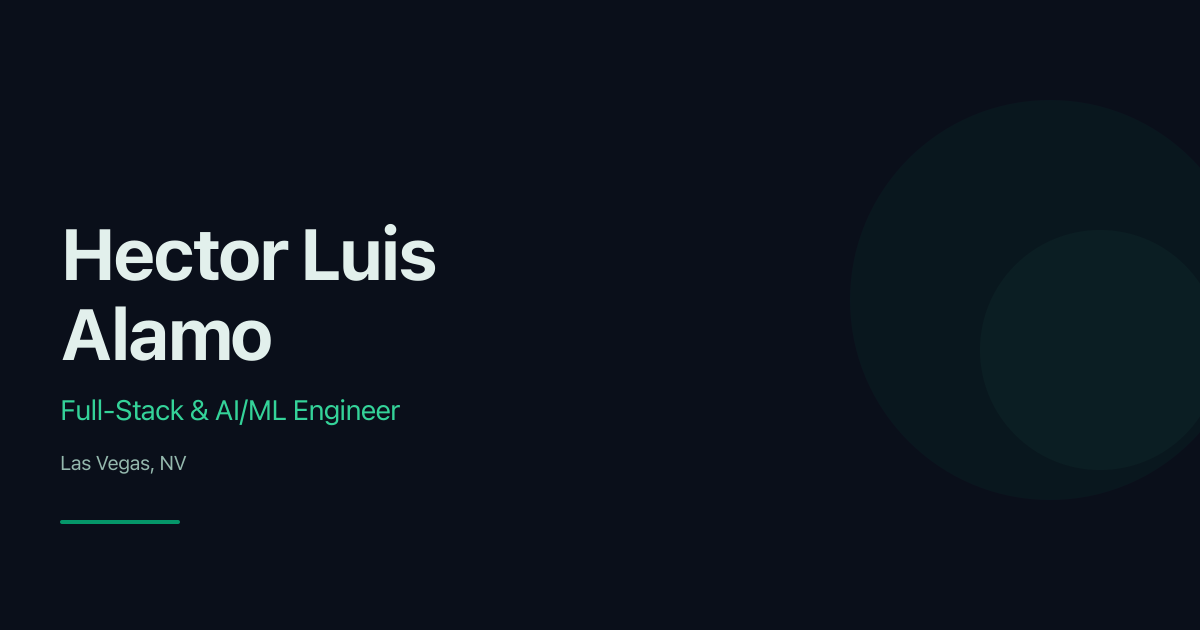
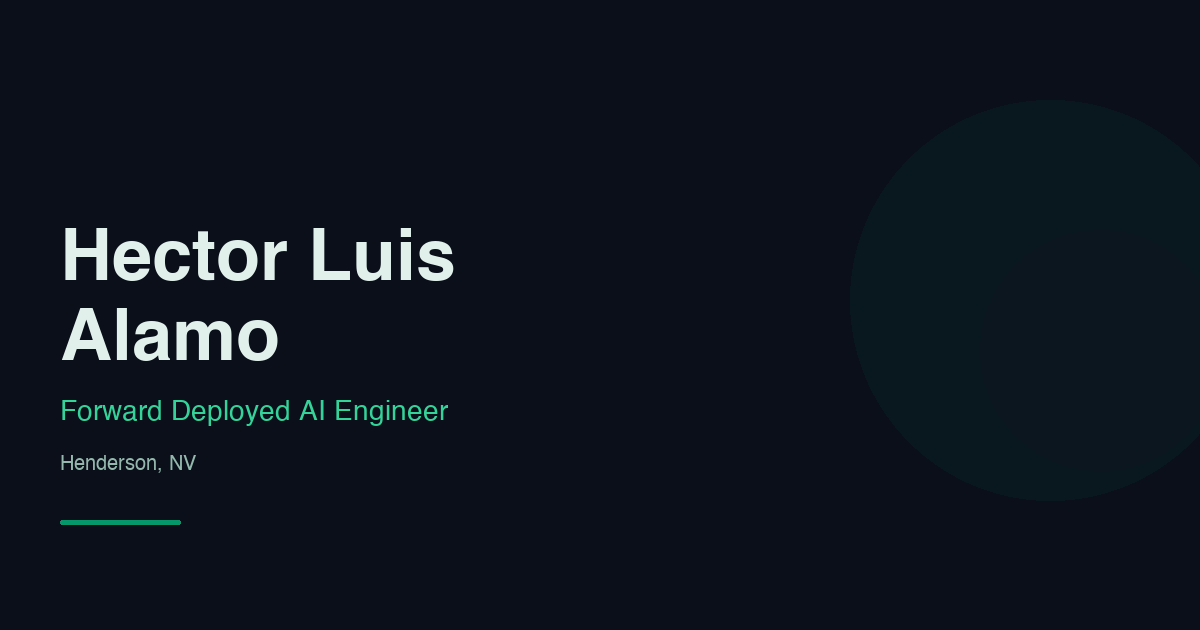
feat: reposition site as Forward Deployed AI Engineer

diff --git a/index.html b/index.html
@@ -4,8 +4,8 @@
     <meta charset="UTF-8" />
     <meta name="viewport" content="width=device-width, initial-scale=1.0" />
 
-    <title>Hector Luis Alamo | Full-Stack &amp; AI/ML Engineer</title>
-    <meta name="description" content="Full-stack engineer and AI/ML specialist building production-grade apps with bilingual NLP, RAG pipelines, and recommendation systems. Based in Las Vegas, NV." />
+    <title>Hector Luis Alamo | Forward Deployed AI Engineer</title>
+    <meta name="description" content="Forward deployed AI engineer building governed agentic systems — AI that runs autonomously but answers to someone. Bilingual EN/ES. Based in Henderson, NV." />
     <meta name="author" content="Hector Luis Alamo" />
     <meta name="robots" content="index, follow" />
     <link rel="canonical" href="https://hectoralamo.dev/" />
@@ -14,8 +14,8 @@
     <!-- Open Graph -->
     <meta property="og:type" content="website" />
     <meta property="og:url" content="https://hectoralamo.dev/" />
-    <meta property="og:title" content="Hector Luis Alamo | Full-Stack &amp; AI/ML Engineer" />
-    <meta property="og:description" content="Full-stack engineer and AI/ML specialist building production-grade apps with bilingual NLP, RAG pipelines, and recommendation systems. Based in Las Vegas, NV." />
+    <meta property="og:title" content="Hector Luis Alamo | Forward Deployed AI Engineer" />
+    <meta property="og:description" content="Forward deployed AI engineer building governed agentic systems — AI that runs autonomously but answers to someone. Bilingual EN/ES. Based in Henderson, NV." />
     <meta property="og:image" content="https://hectoralamo.dev/og-image.png" />
     <meta property="og:image:width" content="1200" />
     <meta property="og:image:height" content="630" />
@@ -24,8 +24,8 @@
 
     <!-- Twitter Card -->
     <meta name="twitter:card" content="summary_large_image" />
-    <meta name="twitter:title" content="Hector Luis Alamo | Full-Stack &amp; AI/ML Engineer" />
-    <meta name="twitter:description" content="Full-stack engineer and AI/ML specialist building production-grade apps with bilingual NLP, RAG pipelines, and recommendation systems. Based in Las Vegas, NV." />
+    <meta name="twitter:title" content="Hector Luis Alamo | Forward Deployed AI Engineer" />
+    <meta name="twitter:description" content="Forward deployed AI engineer building governed agentic systems — AI that runs autonomously but answers to someone. Bilingual EN/ES. Based in Henderson, NV." />
     <meta name="twitter:image" content="https://hectoralamo.dev/og-image.png" />
 
     <!-- Favicon -->
@@ -47,19 +47,19 @@
           "@type": "ProfilePage",
           "mainEntity": { "@id": "#person" },
           "url": "https://hectoralamo.dev/",
-          "name": "Hector Luis Alamo | Full-Stack & AI/ML Engineer"
+          "name": "Hector Luis Alamo | Forward Deployed AI Engineer"
         },
         {
           "@type": "Person",
           "@id": "#person",
           "name": "Hector Luis Alamo",
           "url": "https://hectoralamo.dev/",
-          "jobTitle": "Full-Stack & AI/ML Engineer",
-          "description": "Full-stack engineer and AI/ML specialist building production-grade apps with bilingual NLP, RAG pipelines, and recommendation systems.",
+          "jobTitle": "Forward Deployed AI Engineer",
+          "description": "Forward deployed AI engineer building governed agentic systems — AI that runs autonomously but answers to someone. Bilingual EN/ES.",
           "image": "https://hectoralamo.dev/og-image.png",
           "address": {
             "@type": "PostalAddress",
-            "addressLocality": "Las Vegas",
+            "addressLocality": "Henderson",
             "addressRegion": "NV",
             "addressCountry": "US"
           },
@@ -69,6 +69,9 @@
             "https://www.palamostudio.com"
           ],
           "knowsAbout": [
+            "Forward Deployed Engineering",
+            "Agentic AI Systems",
+            "AI Governance",
             "Full-Stack Development",
             "AI/ML",
             "Bilingual NLP",
@@ -104,7 +107,7 @@
           ],
           "worksFor": {
             "@type": "Organization",
-            "name": "Palamo Dev Studio",
+            "name": "Palamo Studio",
             "url": "https://www.palamostudio.com"
           }
         },
@@ -183,7 +186,7 @@
     <noscript>
       <div style="max-width:800px;margin:0 auto;padding:40px 24px;font-family:system-ui,sans-serif;color:#E2F0EC;background:#0A0F1A;min-height:100vh;">
         <h1>Hector Luis Alamo</h1>
-        <p style="color:#34D399;margin:8px 0 24px;">Full-Stack &amp; AI/ML Engineer &middot; Las Vegas, NV</p>
+        <p style="color:#34D399;margin:8px 0 24px;">Forward Deployed AI Engineer &middot; Henderson, NV</p>
         <p>Building production-grade AI applications with measured outcomes. Production projects across AI, mobile, and publishing. 2,000+ tests on flagship app. Bilingual RAG, ML recommendation systems, and fine-tuned NLP pipelines.</p>
         <h2 style="margin-top:32px;">Skills</h2>
         <p>TypeScript, Python, JavaScript, React Native, Next.js, FastAPI, Node.js, OpenAI API, Claude API, PostgreSQL, Docker, GitHub Actions, pgvector, RAG Pipelines</p>
@@ -200,7 +203,7 @@
         <ul>
           <li><a href="https://github.com/hectorluisalamo" style="color:#34D399;">GitHub</a></li>
           <li><a href="https://www.linkedin.com/in/hector-luis-alamo-90432941/" style="color:#34D399;">LinkedIn</a></li>
-          <li><a href="https://www.palamostudio.com" style="color:#34D399;">Palamo Dev Studio</a></li>
+          <li><a href="https://www.palamostudio.com" style="color:#34D399;">Palamo Studio</a></li>
         </ul>
       </div>
     </noscript>

diff --git a/src/App.jsx b/src/App.jsx
@@ -116,7 +116,7 @@ const projects = [
 
 const experience = [
   {
-    title: "Co-Founder & Lead Developer", company: "Palamo Dev Studio", period: "2025 – Present",
+    title: "Co-Founder & Lead Developer", company: "Palamo Studio", period: "2025 – Present",
     bullets: [
       "Ship production features using LLM APIs (OpenAI, Anthropic) with tool-calling, multi-step agent workflows, and RAG retrieval pipelines",
       "Design clean backend architectures (FastAPI, PostgreSQL, Redis) with structured logging, JWT auth, and Docker-based deployments",
@@ -326,16 +326,16 @@ export default function Resume() {
         {/* HERO */}
         <section id="hero" aria-label="Introduction" style={{ minHeight: "100vh", display: "flex", flexDirection: "column", justifyContent: "center", alignItems: "center", textAlign: "center", padding: "40px 24px", position: "relative", overflow: "hidden" }}>
           <div style={{ position: "absolute", width: "500px", height: "500px", borderRadius: "50%", background: `radial-gradient(circle, ${A}12 0%, transparent 70%)`, top: "50%", left: "50%", transform: "translate(-50%, -50%)", animation: "float 8s ease-in-out infinite", pointerEvents: "none" }} />
-          <FadeIn delay={0.1}><div style={{ fontSize: "12px", fontFamily: "'JetBrains Mono', monospace", color: AG, letterSpacing: "0.2em", textTransform: "uppercase", marginBottom: "16px" }}>AI-native Full Stack Engineer · RAG & Agent Workflows · Web & Mobile</div></FadeIn>
+          <FadeIn delay={0.1}><div style={{ fontSize: "12px", fontFamily: "'JetBrains Mono', monospace", color: AG, letterSpacing: "0.2em", textTransform: "uppercase", marginBottom: "16px" }}>Forward Deployed AI Engineer · Governed Agentic Systems · Bilingual EN/ES</div></FadeIn>
           <FadeIn delay={0.2}><h1 style={{ fontSize: "clamp(40px, 8vw, 76px)", fontFamily: "'Space Grotesk', sans-serif", fontWeight: 700, margin: "0 0 12px", lineHeight: 1.05, letterSpacing: "-0.03em", background: `linear-gradient(135deg, ${T} 0%, ${AG} 50%, ${T} 100%)`, backgroundSize: "200% 200%", WebkitBackgroundClip: "text", WebkitTextFillColor: "transparent", animation: "gradientShift 6s ease infinite" }}>Hector Luis Alamo</h1></FadeIn>
           <FadeIn delay={0.25}><p style={{ fontSize: "15px", fontFamily: "'JetBrains Mono', monospace", color: TM, fontStyle: "italic", margin: "0 0 16px", letterSpacing: "0.01em" }}>Media editor turned AI engineer — 12+ years in media, building with LLMs since 2023</p></FadeIn>
           <WordFade
-            text="AI-native Full Stack Engineer building production LLM-powered applications, RAG pipelines, and agent workflows across web and mobile. 2,000+ tests on flagship app. Bilingual AI systems, ML recommendation engines, and fine-tuned NLP pipelines."
+            text="I build governed agentic systems — AI that runs autonomously but answers to someone — and I stay embedded with your team through production and past it. They work in English and Spanish, with memory, tool-calling, and human oversight at the gates."
             style={{ fontSize: "17px", color: TM, maxWidth: "580px", lineHeight: 1.7, margin: "0 0 8px" }}
             baseDelay={0.4}
           />
           <FadeIn delay={0.5}>
-            <p style={{ fontSize: "13px", color: TD, fontFamily: "'JetBrains Mono', monospace", margin: "0 0 32px" }}>Harvard CS50x + CS50 AI · Co-founder, Palamo Dev Studio</p>
+            <p style={{ fontSize: "13px", color: TD, fontFamily: "'JetBrains Mono', monospace", margin: "0 0 32px" }}>Harvard CS50x + CS50 AI · Co-founder, Palamo Studio</p>
           </FadeIn>
           <FadeIn delay={0.6}>
             <div style={{ display: "flex", gap: "10px", flexWrap: "wrap", justifyContent: "center" }}>
@@ -417,7 +417,7 @@ export default function Resume() {
           <FadeIn>
             <SL text="Let's Connect" />
             <h2 style={{ fontSize: "clamp(26px, 5vw, 42px)", fontFamily: "'Space Grotesk', sans-serif", fontWeight: 700, margin: "0 0 20px", color: T }}>Let's Talk</h2>
-            <p style={{ fontSize: "15px", color: TM, maxWidth: "480px", margin: "0 auto 32px", lineHeight: 1.7 }}>Open to AI/ML engineer, full-stack, and AI content strategist roles. Interested in agentic systems, bilingual AI, and applied NLP.</p>
+            <p style={{ fontSize: "15px", color: TM, maxWidth: "480px", margin: "0 auto 32px", lineHeight: 1.7 }}>Open to forward deployed AI engineering roles — full-time or through Palamo Studio. Interested in governed agentic systems, bilingual AI, and getting them into production.</p>
             <div style={{ display: "flex", gap: "12px", justifyContent: "center", flexWrap: "wrap" }}>
               {[{ l: "GitHub", u: "https://github.com/hectorluisalamo", primary: true, icon: Github }, { l: "LinkedIn", u: "https://www.linkedin.com/in/hector-luis-alamo-90432941/", icon: Linkedin }, { l: "Palamo Studio", u: "https://www.palamostudio.com", icon: Building2 }].map((x, i) => (
                 <a key={i} href={x.u} target="_blank" rel="noopener noreferrer" style={{
@@ -437,7 +437,7 @@ export default function Resume() {
       </main>
 
       <footer style={{ padding: "20px", textAlign: "center", borderTop: `1px solid ${DB}`, fontSize: "11px", fontFamily: "'JetBrains Mono', monospace", color: TD }}>
-        <address style={{ fontStyle: "normal", display: "inline" }}>Las Vegas, NV</address> · Hector Luis Alamo · {new Date().getFullYear()}
+        <address style={{ fontStyle: "normal", display: "inline" }}>Henderson, NV</address> · Hector Luis Alamo · {new Date().getFullYear()}
       </footer>
 
       <style>{`

diff --git a/README.md b/README.md
@@ -1,6 +1,6 @@
 # Resume
 
-Personal portfolio website for Hector Luis Alamo — full-stack engineer and AI/ML specialist.
+Personal portfolio website for Hector Luis Alamo — forward deployed AI engineer.
 
 Built with React 19 and Vite 7.
 
